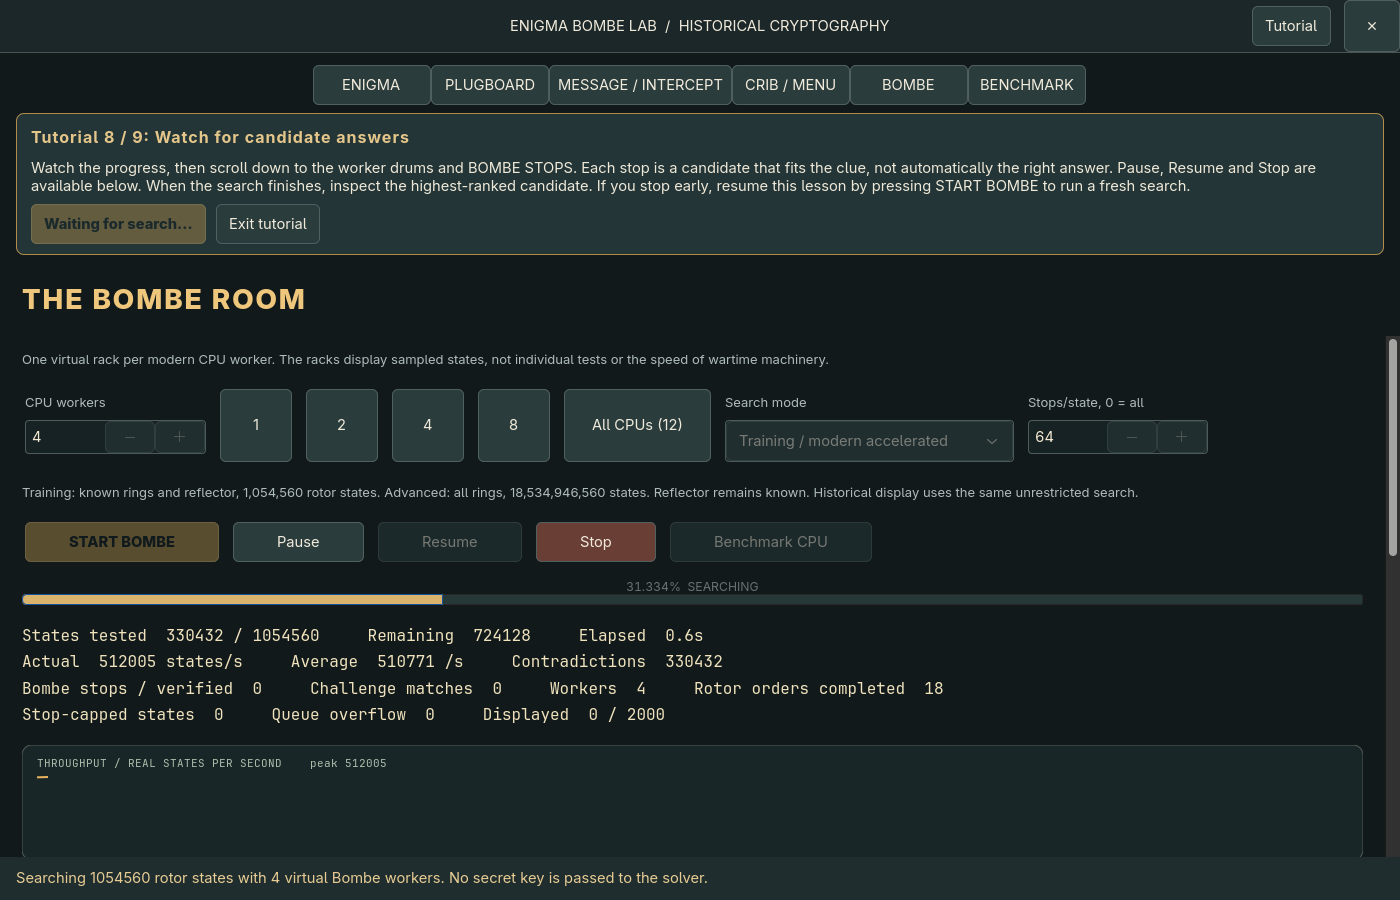
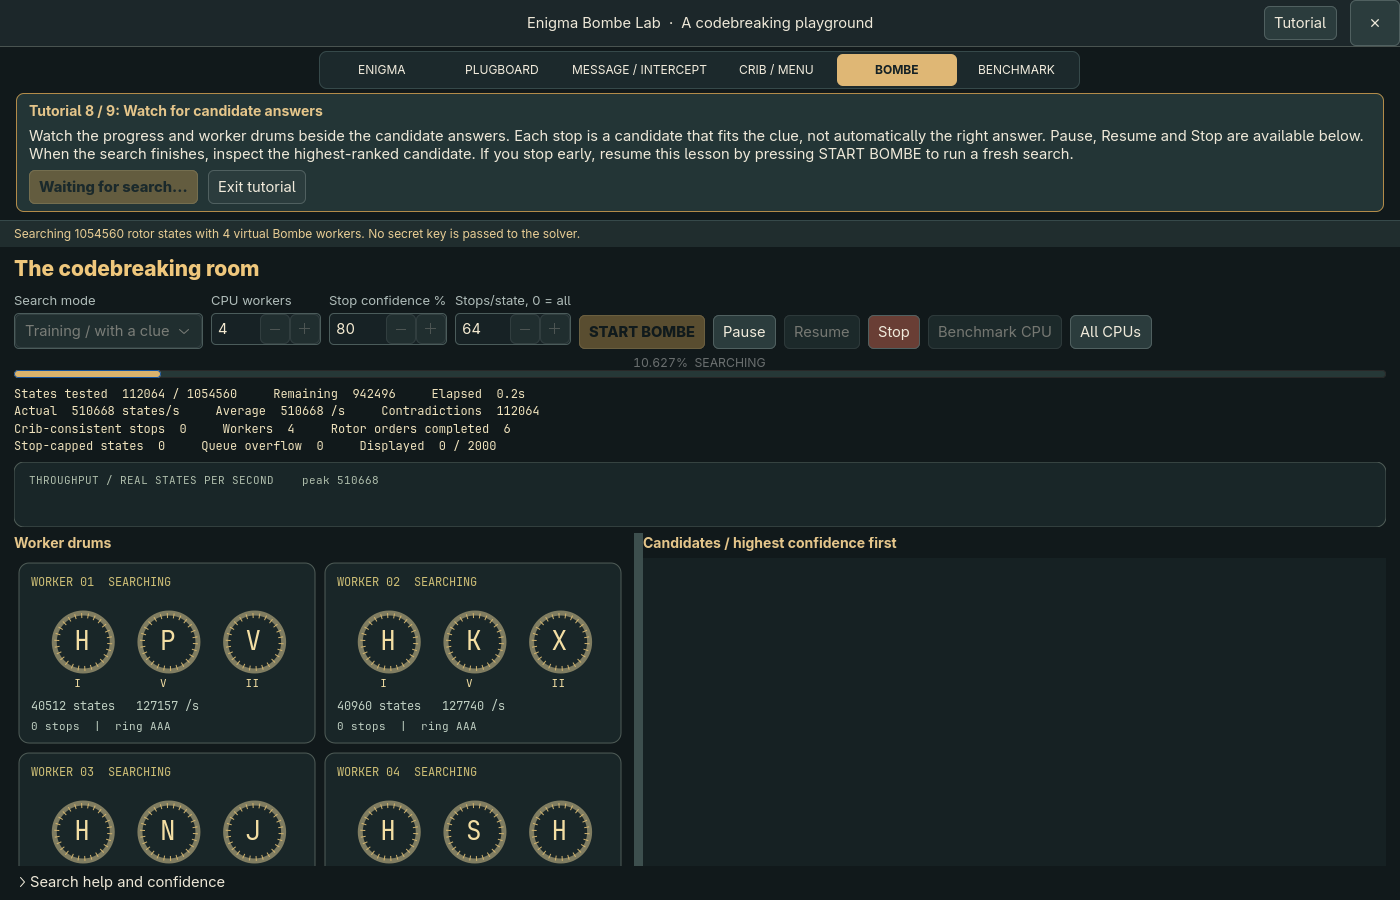
docs: refresh README screenshots for the compact interface

Changed region(s): [[0.0, 0.0, 1.0, 0.9956], [0.8907, 0.0, 1.0, 0.0622], [0.7986, 0.4667, 0.86, 0.5289]]

diff --git a/tests/test_tutorial.c b/tests/test_tutorial.c
@@ -21,6 +21,7 @@ static void check_oversized_import(void) {
     g_assert_true(g_file_set_contents(path, contents, LAB_SCENARIO_MAX_BYTES + 1, &error));
     g_assert_no_error(error);
     char *old_path = g_strdup(gtk_editable_get_text(GTK_EDITABLE(app.scenario_path)));
+    char *old_status = g_strdup(gtk_label_get_text(GTK_LABEL(app.status)));
     char *plain = app_text(app.plain), *cipher = app_text(app.cipher);
     EnigmaKey key = app.key;
     Challenge challenge = app.challenge;
@@ -33,6 +34,8 @@ static void check_oversized_import(void) {
     g_assert_cmpmem(&app.key, sizeof key, &key, sizeof key);
     g_assert_cmpmem(&app.challenge, sizeof challenge, &challenge, sizeof challenge);
     gtk_editable_set_text(GTK_EDITABLE(app.scenario_path), old_path);
+    app_status(&app, "%s", old_status);
+    g_free(old_status);
     g_free(after_plain);
     g_free(after_cipher);
     g_free(plain);
@@ -144,10 +147,10 @@ static gboolean tick(gpointer data) {
         g_free(cipher);
         g_free(plain);
         g_assert_true(app.menu_valid);
+        check_oversized_import();
         break;
     }
     case 6:
-        check_oversized_import();
         if (!capture("crib.png"))
             return G_SOURCE_CONTINUE;
         next(6);
@@ -202,6 +205,9 @@ static void activate(GtkApplication *application, gpointer data) {
     g_assert_cmpstr(initial_plain, ==, "WETTERBERICHT");
     g_assert_false(app.challenge.present);
     g_free(initial_plain);
+    /* Return to the normal lesson after verifying the deliberately invalid startup file. */
+    gtk_editable_set_text(GTK_EDITABLE(app.scenario_path), "scenario.ini");
+    app_status(&app, "Ready to play. Start the tutorial for a guided first run.");
     gtk_stack_set_transition_type(GTK_STACK(app.stack), GTK_STACK_TRANSITION_TYPE_NONE);
     const char *size = g_getenv("LAB_TEST_SMALL_WINDOW");
     if (size)

diff --git a/src/tutorial.c b/src/tutorial.c
@@ -51,14 +51,13 @@ static const Lesson lessons[] = {
      "the hidden key or message.",
      "START BOMBE"},
     {"bombe", "Watch for candidate answers",
-     "Watch the progress, then scroll down to the worker drums and Candidate answers. Each stop is "
-     "a "
+     "Watch the progress and worker drums beside the candidate answers. Each stop is a "
      "candidate that fits the clue, not automatically the right answer. Pause, Resume and Stop "
      "are available below. When the search finishes, inspect the highest-ranked candidate. "
      "If you stop early, resume this lesson by pressing START BOMBE to run a fresh search.",
      "Waiting for search..."},
     {"message", "Read your recovered message",
-     "Scroll to Candidate decryption and check your final sentence. The selected candidate's "
+     "Read Candidate decryption and check your final sentence. The selected candidate's "
      "settings are also loaded in ENIGMA and PLUGBOARD. Reveal secret key lets you compare "
      "with the original afterward. For another message, encrypt it, use Hide as intercept, "
      "enter a phrase you expect in it, then START BOMBE. Or try English detective to explore "

diff --git a/README.md b/README.md
@@ -49,6 +49,8 @@ Starting the lesson replaces your current message and settings. Opening the tuto
 
 On **ENIGMA**, click **Randomize machine**. This chooses the rotor order, starting letters and ten plugboard pairs. Leave **Randomize rings too** off for your first attempts, with Ringstellung **AAA** and reflector **B**.
 
+![Compact Enigma controls above the animated rotors, signal path and lampboard](docs/screenshots/enigma.png)
+
 On **PLUGBOARD**, the cables swap pairs of letters. You can click two sockets to connect them, click a connected socket to remove its cable, or use **Randomize 10 pairs**.
 
 ![The plugboard and its letter-swapping cables](docs/screenshots/plugboard.png)
